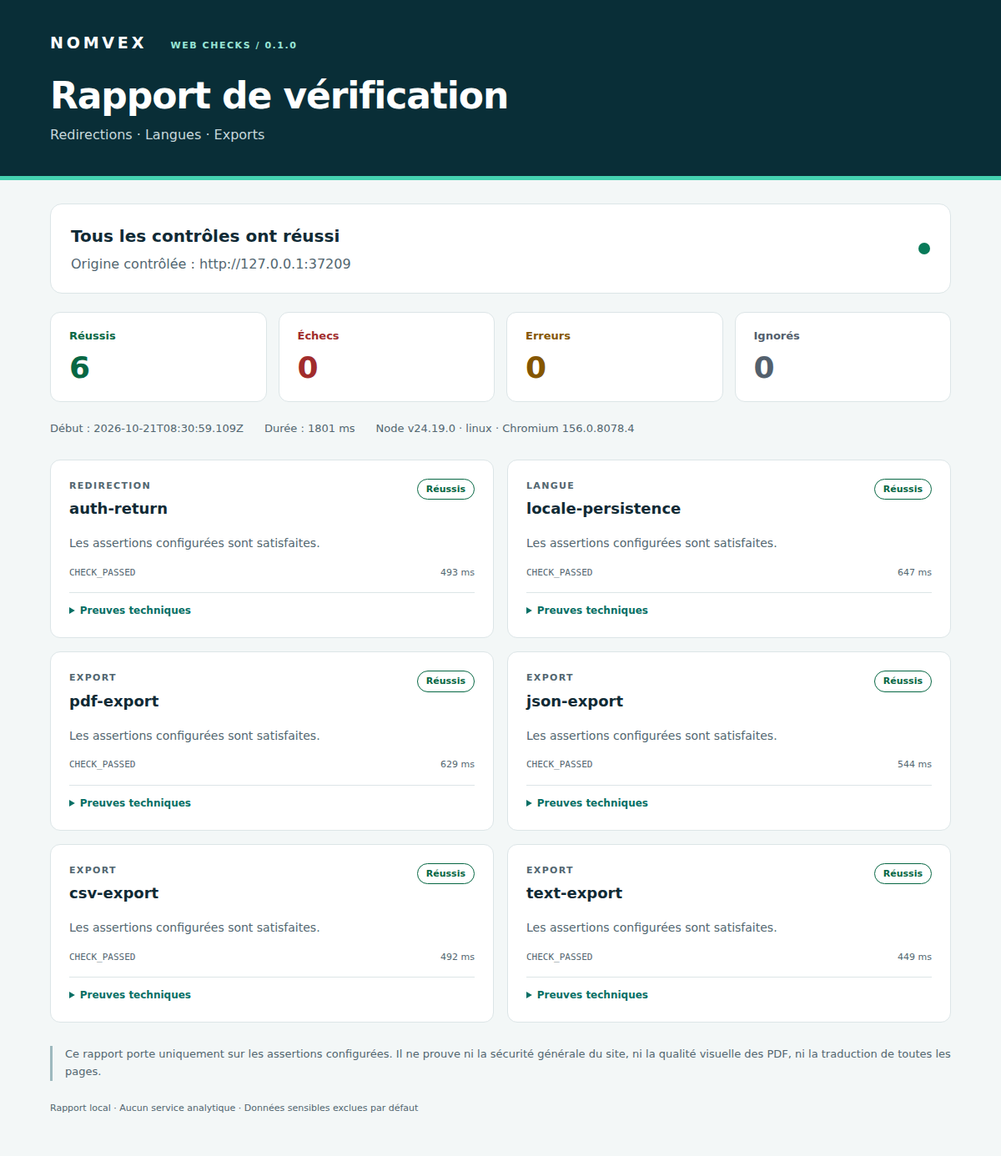
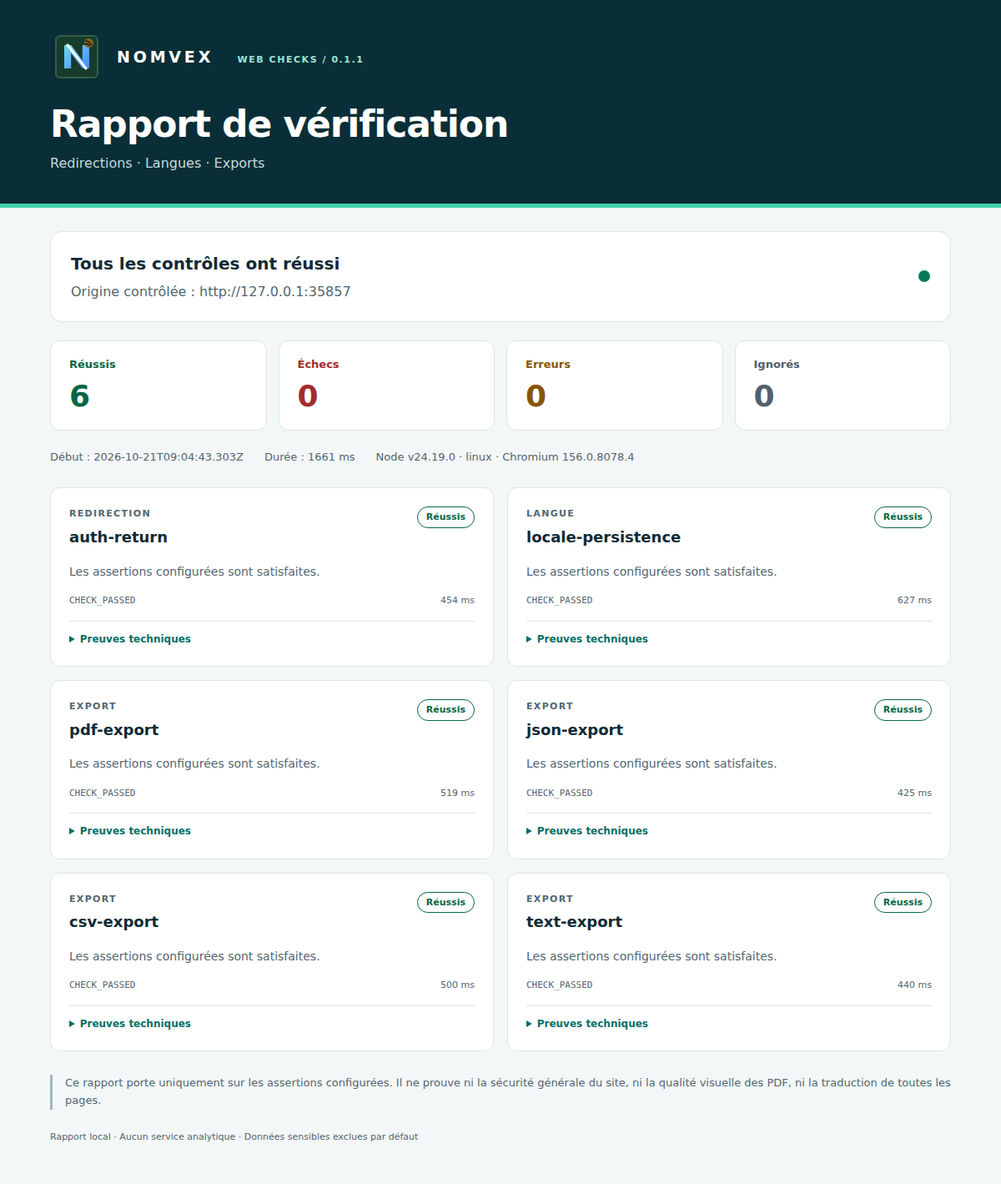
feat: add existing NOMVEX identity to offline reports
Reuse the existing platform mark in both READMEs and embed the exact SVG
bytes in standalone reports. Preserve HTML escaping and allow data images only.

Release 0.1.1: 47 clean-copy tests passed; healthy demo 6/6; broken demo
7 expected failures. Logo loading verified offline on desktop, mobile and
print media with no external requests or horizontal overflow.

diff --git a/docs/examples/healthy-report.fr.html b/docs/examples/healthy-report.fr.html
@@ -1,4 +1,4 @@
 <!doctype html>
-<html lang="fr"><head><meta charset="utf-8"><meta name="viewport" content="width=device-width, initial-scale=1"><meta http-equiv="Content-Security-Policy" content="default-src 'none'; style-src 'unsafe-inline'; base-uri 'none'; form-action 'none'"><title>NOMVEX — Rapport de vérification</title><style>
-:root{color-scheme:light;--ink:#102a35;--muted:#526670;--line:#dce5e7;--teal:#076f65;--bg:#f3f7f7}*{box-sizing:border-box}body{margin:0;background:var(--bg);font:16px/1.6 system-ui,-apple-system,Segoe UI,sans-serif;color:var(--ink)}header{background:#092e37;color:#fff;padding:36px max(24px,calc((100vw - 1080px)/2));border-bottom:5px solid #45d2b0}.brand{font-weight:800;letter-spacing:.2em;font-size:19px}.brand small{font-size:11px;letter-spacing:.14em;color:#99e5d5;margin-left:18px}h1{font-size:clamp(28px,4vw,44px);line-height:1.15;margin:24px 0 8px;letter-spacing:-.025em}header p{margin:0;color:#c7d8dc}main{max-width:1128px;margin:auto;padding:28px 24px 48px}.verdict{display:flex;align-items:center;justify-content:space-between;gap:20px;padding:22px 24px;background:#fff;border:1px solid var(--line);border-radius:14px}.verdict h2{font-size:20px;margin:0}.verdict p{margin:5px 0 0;color:var(--muted);overflow-wrap:anywhere}.dot{width:14px;height:14px;border-radius:50%;background:#087a59;flex-shrink:0}.metrics{display:grid;grid-template-columns:repeat(4,1fr);gap:14px;margin:22px 0}.metric{padding:18px 22px;background:#fff;border:1px solid var(--line);border-radius:12px}.metric span{display:block;font-size:13px;font-weight:650}.metric strong{display:block;font-size:36px;line-height:1.25;margin-top:4px}.passed{color:#066743}.failed{color:#a12c2c}.error{color:#855600}.skipped{color:#53606d}.meta{display:flex;flex-wrap:wrap;gap:10px 25px;font-size:13px;color:var(--muted);margin:12px 0 26px}.checks{display:grid;grid-template-columns:repeat(2,minmax(0,1fr));gap:16px}.check{background:white;border:1px solid var(--line);border-radius:12px;padding:22px;min-width:0}.check-top{display:flex;justify-content:space-between;align-items:flex-start;gap:12px}.kind{text-transform:uppercase;font-size:11px;letter-spacing:.12em;color:var(--muted);font-weight:700;margin:0 0 5px}.check h2{font-size:18px;margin:0;overflow-wrap:anywhere}.check>p{font-size:14px;color:var(--muted);margin:15px 0}.badge{font-size:11px;font-weight:750;border:1px solid currentColor;border-radius:99px;padding:3px 10px;white-space:nowrap}.check-meta{display:flex;gap:12px;justify-content:space-between;align-items:flex-start;font-size:11px;color:var(--muted)}code{font-family:ui-monospace,monospace;overflow-wrap:anywhere}details{margin-top:15px;border-top:1px solid var(--line);padding-top:12px;font-size:12px}summary{cursor:pointer;color:var(--teal);font-weight:650}summary:focus-visible{outline:3px solid #69c9b3;outline-offset:4px}dl{margin:12px 0 0}dl div{display:flex;justify-content:space-between;gap:16px;padding:4px 0}dt,dd{margin:0;overflow-wrap:anywhere}.limits{border-left:3px solid #9db9be;padding-left:15px;color:var(--muted);font-size:13px;margin-top:28px}footer{color:var(--muted);font-size:11px;margin-top:24px}@media(max-width:650px){.metrics{grid-template-columns:repeat(2,1fr)}.checks{grid-template-columns:1fr}.brand small{display:block;margin:5px 0 0}.verdict{padding:18px}main{padding:20px 16px}header{padding:28px 20px}}@media print{body{background:#fff}.check{break-inside:avoid}header{background:#fff;color:var(--ink)}header p{color:var(--muted)}details{display:block}.checks{grid-template-columns:1fr}}
-</style></head><body><header><div class="brand">NOMVEX <small>WEB CHECKS / 0.1.0</small></div><h1>Rapport de vérification</h1><p>Redirections · Langues · Exports</p></header><main><section class="verdict"><div><h2>Tous les contrôles ont réussi</h2><p>Origine contrôlée : http://127.0.0.1:37209</p></div><span class="dot" aria-hidden="true"></span></section><section class="metrics" aria-label="Résultat"><div class="metric passed"><span>Réussis</span><strong>6</strong></div><div class="metric failed"><span>Échecs</span><strong>0</strong></div><div class="metric error"><span>Erreurs</span><strong>0</strong></div><div class="metric skipped"><span>Ignorés</span><strong>0</strong></div></section><div class="meta"><span>Début : 2026-10-21T08:30:59.109Z</span><span>Durée : 1801 ms</span><span>Node v24.19.0 · linux · Chromium 156.0.8078.4</span></div><section class="checks" aria-label="Contrôle"><article class="check"><div class="check-top"><div><p class="kind">Redirection</p><h2>auth-return</h2></div><span class="badge passed">Réussis</span></div><p>Les assertions configurées sont satisfaites.</p><div class="check-meta"><code>CHECK_PASSED</code><span>493 ms</span></div><details><summary>Preuves techniques</summary><dl><div><dt>exactUrlMatched</dt><dd>true</dd></div></dl></details></article><article class="check"><div class="check-top"><div><p class="kind">Langue</p><h2>locale-persistence</h2></div><span class="badge passed">Réussis</span></div><p>Les assertions configurées sont satisfaites.</p><div class="check-meta"><code>CHECK_PASSED</code><span>647 ms</span></div><details><summary>Preuves techniques</summary><dl><div><dt>stagesChecked</dt><dd>3</dd></div><div><dt>textChecked</dt><dd>true</dd></div></dl></details></article><article class="check"><div class="check-top"><div><p class="kind">Export</p><h2>pdf-export</h2></div><span class="badge passed">Réussis</span></div><p>Les assertions configurées sont satisfaites.</p><div class="check-meta"><code>CHECK_PASSED</code><span>629 ms</span></div><details><summary>Preuves techniques</summary><dl><div><dt>format</dt><dd>pdf</dd></div><div><dt>bytes</dt><dd>887</dd></div><div><dt>pages</dt><dd>1</dd></div></dl></details></article><article class="check"><div class="check-top"><div><p class="kind">Export</p><h2>json-export</h2></div><span class="badge passed">Réussis</span></div><p>Les assertions configurées sont satisfaites.</p><div class="check-meta"><code>CHECK_PASSED</code><span>544 ms</span></div><details><summary>Preuves techniques</summary><dl><div><dt>format</dt><dd>json</dd></div><div><dt>bytes</dt><dd>84</dd></div><div><dt>expectedTextChecked</dt><dd>false</dd></div><div><dt>requiredKeysChecked</dt><dd>3</dd></div></dl></details></article><article class="check"><div class="check-top"><div><p class="kind">Export</p><h2>csv-export</h2></div><span class="badge passed">Réussis</span></div><p>Les assertions configurées sont satisfaites.</p><div class="check-meta"><code>CHECK_PASSED</code><span>492 ms</span></div><details><summary>Preuves techniques</summary><dl><div><dt>format</dt><dd>csv</dd></div><div><dt>bytes</dt><dd>81</dd></div><div><dt>expectedTextChecked</dt><dd>false</dd></div><div><dt>columns</dt><dd>3</dd></div><div><dt>dataRows</dt><dd>2</dd></div></dl></details></article><article class="check"><div class="check-top"><div><p class="kind">Export</p><h2>text-export</h2></div><span class="badge passed">Réussis</span></div><p>Les assertions configurées sont satisfaites.</p><div class="check-meta"><code>CHECK_PASSED</code><span>449 ms</span></div><details><summary>Preuves techniques</summary><dl><div><dt>format</dt><dd>text</dd></div><div><dt>bytes</dt><dd>41</dd></div><div><dt>expectedTextChecked</dt><dd>true</dd></div></dl></details></article></section><p class="limits">Ce rapport porte uniquement sur les assertions configurées. Il ne prouve ni la sécurité générale du site, ni la qualité visuelle des PDF, ni la traduction de toutes les pages.</p><footer>Rapport local · Aucun service analytique · Données sensibles exclues par défaut</footer></main></body></html>
+<html lang="fr"><head><meta charset="utf-8"><meta name="viewport" content="width=device-width, initial-scale=1"><meta http-equiv="Content-Security-Policy" content="default-src 'none'; img-src data:; style-src 'unsafe-inline'; base-uri 'none'; form-action 'none'"><title>NOMVEX — Rapport de vérification</title><style>
+:root{color-scheme:light;--ink:#102a35;--muted:#526670;--line:#dce5e7;--teal:#076f65;--bg:#f3f7f7}*{box-sizing:border-box}body{margin:0;background:var(--bg);font:16px/1.6 system-ui,-apple-system,Segoe UI,sans-serif;color:var(--ink)}header{background:#092e37;color:#fff;padding:36px max(24px,calc((100vw - 1080px)/2));border-bottom:5px solid #45d2b0}.brand{display:flex;align-items:center;gap:16px;font-weight:800;letter-spacing:.2em;font-size:19px}.brand-mark{display:block;width:64px;height:64px;flex:0 0 64px;object-fit:contain}.brand-copy{min-width:0;overflow-wrap:anywhere}.brand small{font-size:11px;letter-spacing:.14em;color:#99e5d5;margin-left:18px}h1{font-size:clamp(28px,4vw,44px);line-height:1.15;margin:24px 0 8px;letter-spacing:-.025em}header p{margin:0;color:#c7d8dc}main{max-width:1128px;margin:auto;padding:28px 24px 48px}.verdict{display:flex;align-items:center;justify-content:space-between;gap:20px;padding:22px 24px;background:#fff;border:1px solid var(--line);border-radius:14px}.verdict h2{font-size:20px;margin:0}.verdict p{margin:5px 0 0;color:var(--muted);overflow-wrap:anywhere}.dot{width:14px;height:14px;border-radius:50%;background:#087a59;flex-shrink:0}.metrics{display:grid;grid-template-columns:repeat(4,1fr);gap:14px;margin:22px 0}.metric{padding:18px 22px;background:#fff;border:1px solid var(--line);border-radius:12px}.metric span{display:block;font-size:13px;font-weight:650}.metric strong{display:block;font-size:36px;line-height:1.25;margin-top:4px}.passed{color:#066743}.failed{color:#a12c2c}.error{color:#855600}.skipped{color:#53606d}.meta{display:flex;flex-wrap:wrap;gap:10px 25px;font-size:13px;color:var(--muted);margin:12px 0 26px}.checks{display:grid;grid-template-columns:repeat(2,minmax(0,1fr));gap:16px}.check{background:white;border:1px solid var(--line);border-radius:12px;padding:22px;min-width:0}.check-top{display:flex;justify-content:space-between;align-items:flex-start;gap:12px}.kind{text-transform:uppercase;font-size:11px;letter-spacing:.12em;color:var(--muted);font-weight:700;margin:0 0 5px}.check h2{font-size:18px;margin:0;overflow-wrap:anywhere}.check>p{font-size:14px;color:var(--muted);margin:15px 0}.badge{font-size:11px;font-weight:750;border:1px solid currentColor;border-radius:99px;padding:3px 10px;white-space:nowrap}.check-meta{display:flex;gap:12px;justify-content:space-between;align-items:flex-start;font-size:11px;color:var(--muted)}code{font-family:ui-monospace,monospace;overflow-wrap:anywhere}details{margin-top:15px;border-top:1px solid var(--line);padding-top:12px;font-size:12px}summary{cursor:pointer;color:var(--teal);font-weight:650}summary:focus-visible{outline:3px solid #69c9b3;outline-offset:4px}dl{margin:12px 0 0}dl div{display:flex;justify-content:space-between;gap:16px;padding:4px 0}dt,dd{margin:0;overflow-wrap:anywhere}.limits{border-left:3px solid #9db9be;padding-left:15px;color:var(--muted);font-size:13px;margin-top:28px}footer{color:var(--muted);font-size:11px;margin-top:24px}@media(max-width:650px){.brand{gap:12px}.brand-mark{width:56px;height:56px;flex-basis:56px}.metrics{grid-template-columns:repeat(2,1fr)}.checks{grid-template-columns:1fr}.brand small{display:block;margin:5px 0 0}.verdict{padding:18px}main{padding:20px 16px}header{padding:28px 20px}}@media print{body{background:#fff}.check{break-inside:avoid}header{background:#fff;color:var(--ink)}header p,.brand small{color:var(--muted)}details{display:block}.checks{grid-template-columns:1fr}}
[1 lines of base64/hex data omitted]

diff --git a/docs/examples/healthy-report.en.html b/docs/examples/healthy-report.en.html
@@ -1,4 +1,4 @@
 <!doctype html>
-<html lang="en"><head><meta charset="utf-8"><meta name="viewport" content="width=device-width, initial-scale=1"><meta http-equiv="Content-Security-Policy" content="default-src 'none'; style-src 'unsafe-inline'; base-uri 'none'; form-action 'none'"><title>NOMVEX — Verification report</title><style>
-:root{color-scheme:light;--ink:#102a35;--muted:#526670;--line:#dce5e7;--teal:#076f65;--bg:#f3f7f7}*{box-sizing:border-box}body{margin:0;background:var(--bg);font:16px/1.6 system-ui,-apple-system,Segoe UI,sans-serif;color:var(--ink)}header{background:#092e37;color:#fff;padding:36px max(24px,calc((100vw - 1080px)/2));border-bottom:5px solid #45d2b0}.brand{font-weight:800;letter-spacing:.2em;font-size:19px}.brand small{font-size:11px;letter-spacing:.14em;color:#99e5d5;margin-left:18px}h1{font-size:clamp(28px,4vw,44px);line-height:1.15;margin:24px 0 8px;letter-spacing:-.025em}header p{margin:0;color:#c7d8dc}main{max-width:1128px;margin:auto;padding:28px 24px 48px}.verdict{display:flex;align-items:center;justify-content:space-between;gap:20px;padding:22px 24px;background:#fff;border:1px solid var(--line);border-radius:14px}.verdict h2{font-size:20px;margin:0}.verdict p{margin:5px 0 0;color:var(--muted);overflow-wrap:anywhere}.dot{width:14px;height:14px;border-radius:50%;background:#087a59;flex-shrink:0}.metrics{display:grid;grid-template-columns:repeat(4,1fr);gap:14px;margin:22px 0}.metric{padding:18px 22px;background:#fff;border:1px solid var(--line);border-radius:12px}.metric span{display:block;font-size:13px;font-weight:650}.metric strong{display:block;font-size:36px;line-height:1.25;margin-top:4px}.passed{color:#066743}.failed{color:#a12c2c}.error{color:#855600}.skipped{color:#53606d}.meta{display:flex;flex-wrap:wrap;gap:10px 25px;font-size:13px;color:var(--muted);margin:12px 0 26px}.checks{display:grid;grid-template-columns:repeat(2,minmax(0,1fr));gap:16px}.check{background:white;border:1px solid var(--line);border-radius:12px;padding:22px;min-width:0}.check-top{display:flex;justify-content:space-between;align-items:flex-start;gap:12px}.kind{text-transform:uppercase;font-size:11px;letter-spacing:.12em;color:var(--muted);font-weight:700;margin:0 0 5px}.check h2{font-size:18px;margin:0;overflow-wrap:anywhere}.check>p{font-size:14px;color:var(--muted);margin:15px 0}.badge{font-size:11px;font-weight:750;border:1px solid currentColor;border-radius:99px;padding:3px 10px;white-space:nowrap}.check-meta{display:flex;gap:12px;justify-content:space-between;align-items:flex-start;font-size:11px;color:var(--muted)}code{font-family:ui-monospace,monospace;overflow-wrap:anywhere}details{margin-top:15px;border-top:1px solid var(--line);padding-top:12px;font-size:12px}summary{cursor:pointer;color:var(--teal);font-weight:650}summary:focus-visible{outline:3px solid #69c9b3;outline-offset:4px}dl{margin:12px 0 0}dl div{display:flex;justify-content:space-between;gap:16px;padding:4px 0}dt,dd{margin:0;overflow-wrap:anywhere}.limits{border-left:3px solid #9db9be;padding-left:15px;color:var(--muted);font-size:13px;margin-top:28px}footer{color:var(--muted);font-size:11px;margin-top:24px}@media(max-width:650px){.metrics{grid-template-columns:repeat(2,1fr)}.checks{grid-template-columns:1fr}.brand small{display:block;margin:5px 0 0}.verdict{padding:18px}main{padding:20px 16px}header{padding:28px 20px}}@media print{body{background:#fff}.check{break-inside:avoid}header{background:#fff;color:var(--ink)}header p{color:var(--muted)}details{display:block}.checks{grid-template-columns:1fr}}
-</style></head><body><header><div class="brand">NOMVEX <small>WEB CHECKS / 0.1.0</small></div><h1>Verification report</h1><p>Redirects · Languages · Exports</p></header><main><section class="verdict"><div><h2>All checks passed</h2><p>Checked origin : http://127.0.0.1:37209</p></div><span class="dot" aria-hidden="true"></span></section><section class="metrics" aria-label="Result"><div class="metric passed"><span>Passed</span><strong>6</strong></div><div class="metric failed"><span>Failed</span><strong>0</strong></div><div class="metric error"><span>Errors</span><strong>0</strong></div><div class="metric skipped"><span>Skipped</span><strong>0</strong></div></section><div class="meta"><span>Started : 2026-10-21T08:30:59.109Z</span><span>Duration : 1801 ms</span><span>Node v24.19.0 · linux · Chromium 156.0.8078.4</span></div><section class="checks" aria-label="Check"><article class="check"><div class="check-top"><div><p class="kind">Redirect</p><h2>auth-return</h2></div><span class="badge passed">Passed</span></div><p>The configured assertions passed.</p><div class="check-meta"><code>CHECK_PASSED</code><span>493 ms</span></div><details><summary>Technical evidence</summary><dl><div><dt>exactUrlMatched</dt><dd>true</dd></div></dl></details></article><article class="check"><div class="check-top"><div><p class="kind">Language</p><h2>locale-persistence</h2></div><span class="badge passed">Passed</span></div><p>The configured assertions passed.</p><div class="check-meta"><code>CHECK_PASSED</code><span>647 ms</span></div><details><summary>Technical evidence</summary><dl><div><dt>stagesChecked</dt><dd>3</dd></div><div><dt>textChecked</dt><dd>true</dd></div></dl></details></article><article class="check"><div class="check-top"><div><p class="kind">Export</p><h2>pdf-export</h2></div><span class="badge passed">Passed</span></div><p>The configured assertions passed.</p><div class="check-meta"><code>CHECK_PASSED</code><span>629 ms</span></div><details><summary>Technical evidence</summary><dl><div><dt>format</dt><dd>pdf</dd></div><div><dt>bytes</dt><dd>887</dd></div><div><dt>pages</dt><dd>1</dd></div></dl></details></article><article class="check"><div class="check-top"><div><p class="kind">Export</p><h2>json-export</h2></div><span class="badge passed">Passed</span></div><p>The configured assertions passed.</p><div class="check-meta"><code>CHECK_PASSED</code><span>544 ms</span></div><details><summary>Technical evidence</summary><dl><div><dt>format</dt><dd>json</dd></div><div><dt>bytes</dt><dd>84</dd></div><div><dt>expectedTextChecked</dt><dd>false</dd></div><div><dt>requiredKeysChecked</dt><dd>3</dd></div></dl></details></article><article class="check"><div class="check-top"><div><p class="kind">Export</p><h2>csv-export</h2></div><span class="badge passed">Passed</span></div><p>The configured assertions passed.</p><div class="check-meta"><code>CHECK_PASSED</code><span>492 ms</span></div><details><summary>Technical evidence</summary><dl><div><dt>format</dt><dd>csv</dd></div><div><dt>bytes</dt><dd>81</dd></div><div><dt>expectedTextChecked</dt><dd>false</dd></div><div><dt>columns</dt><dd>3</dd></div><div><dt>dataRows</dt><dd>2</dd></div></dl></details></article><article class="check"><div class="check-top"><div><p class="kind">Export</p><h2>text-export</h2></div><span class="badge passed">Passed</span></div><p>The configured assertions passed.</p><div class="check-meta"><code>CHECK_PASSED</code><span>449 ms</span></div><details><summary>Technical evidence</summary><dl><div><dt>format</dt><dd>text</dd></div><div><dt>bytes</dt><dd>41</dd></div><div><dt>expectedTextChecked</dt><dd>true</dd></div></dl></details></article></section><p class="limits">This report covers only the configured assertions. It does not establish overall site security, visual PDF quality, or complete translation of every page.</p><footer>Local report · No analytics service · Sensitive values excluded by default</footer></main></body></html>
+<html lang="en"><head><meta charset="utf-8"><meta name="viewport" content="width=device-width, initial-scale=1"><meta http-equiv="Content-Security-Policy" content="default-src 'none'; img-src data:; style-src 'unsafe-inline'; base-uri 'none'; form-action 'none'"><title>NOMVEX — Verification report</title><style>
+:root{color-scheme:light;--ink:#102a35;--muted:#526670;--line:#dce5e7;--teal:#076f65;--bg:#f3f7f7}*{box-sizing:border-box}body{margin:0;background:var(--bg);font:16px/1.6 system-ui,-apple-system,Segoe UI,sans-serif;color:var(--ink)}header{background:#092e37;color:#fff;padding:36px max(24px,calc((100vw - 1080px)/2));border-bottom:5px solid #45d2b0}.brand{display:flex;align-items:center;gap:16px;font-weight:800;letter-spacing:.2em;font-size:19px}.brand-mark{display:block;width:64px;height:64px;flex:0 0 64px;object-fit:contain}.brand-copy{min-width:0;overflow-wrap:anywhere}.brand small{font-size:11px;letter-spacing:.14em;color:#99e5d5;margin-left:18px}h1{font-size:clamp(28px,4vw,44px);line-height:1.15;margin:24px 0 8px;letter-spacing:-.025em}header p{margin:0;color:#c7d8dc}main{max-width:1128px;margin:auto;padding:28px 24px 48px}.verdict{display:flex;align-items:center;justify-content:space-between;gap:20px;padding:22px 24px;background:#fff;border:1px solid var(--line);border-radius:14px}.verdict h2{font-size:20px;margin:0}.verdict p{margin:5px 0 0;color:var(--muted);overflow-wrap:anywhere}.dot{width:14px;height:14px;border-radius:50%;background:#087a59;flex-shrink:0}.metrics{display:grid;grid-template-columns:repeat(4,1fr);gap:14px;margin:22px 0}.metric{padding:18px 22px;background:#fff;border:1px solid var(--line);border-radius:12px}.metric span{display:block;font-size:13px;font-weight:650}.metric strong{display:block;font-size:36px;line-height:1.25;margin-top:4px}.passed{color:#066743}.failed{color:#a12c2c}.error{color:#855600}.skipped{color:#53606d}.meta{display:flex;flex-wrap:wrap;gap:10px 25px;font-size:13px;color:var(--muted);margin:12px 0 26px}.checks{display:grid;grid-template-columns:repeat(2,minmax(0,1fr));gap:16px}.check{background:white;border:1px solid var(--line);border-radius:12px;padding:22px;min-width:0}.check-top{display:flex;justify-content:space-between;align-items:flex-start;gap:12px}.kind{text-transform:uppercase;font-size:11px;letter-spacing:.12em;color:var(--muted);font-weight:700;margin:0 0 5px}.check h2{font-size:18px;margin:0;overflow-wrap:anywhere}.check>p{font-size:14px;color:var(--muted);margin:15px 0}.badge{font-size:11px;font-weight:750;border:1px solid currentColor;border-radius:99px;padding:3px 10px;white-space:nowrap}.check-meta{display:flex;gap:12px;justify-content:space-between;align-items:flex-start;font-size:11px;color:var(--muted)}code{font-family:ui-monospace,monospace;overflow-wrap:anywhere}details{margin-top:15px;border-top:1px solid var(--line);padding-top:12px;font-size:12px}summary{cursor:pointer;color:var(--teal);font-weight:650}summary:focus-visible{outline:3px solid #69c9b3;outline-offset:4px}dl{margin:12px 0 0}dl div{display:flex;justify-content:space-between;gap:16px;padding:4px 0}dt,dd{margin:0;overflow-wrap:anywhere}.limits{border-left:3px solid #9db9be;padding-left:15px;color:var(--muted);font-size:13px;margin-top:28px}footer{color:var(--muted);font-size:11px;margin-top:24px}@media(max-width:650px){.brand{gap:12px}.brand-mark{width:56px;height:56px;flex-basis:56px}.metrics{grid-template-columns:repeat(2,1fr)}.checks{grid-template-columns:1fr}.brand small{display:block;margin:5px 0 0}.verdict{padding:18px}main{padding:20px 16px}header{padding:28px 20px}}@media print{body{background:#fff}.check{break-inside:avoid}header{background:#fff;color:var(--ink)}header p,.brand small{color:var(--muted)}details{display:block}.checks{grid-template-columns:1fr}}
[1 lines of base64/hex data omitted]

diff --git a/src/report.ts b/src/report.ts
@@ -1,4 +1,5 @@
 import type { Language, RunReport } from './types.js';
+import { NOMVEX_MARK_DATA_URI } from './branding.js';
 
 const messages: Record<string, [string, string]> = {
   CHECK_PASSED: ['Les assertions configurées sont satisfaites.', 'The configured assertions passed.'],
@@ -98,7 +99,7 @@ export function renderHtml(report: RunReport): string {
   }).join('');
   const elapsed = Math.max(0, Date.parse(report.finishedAt) - Date.parse(report.startedAt));
   return `<!doctype html>
-<html lang="${lang}"><head><meta charset="utf-8"><meta name="viewport" content="width=device-width, initial-scale=1"><meta http-equiv="Content-Security-Policy" content="default-src 'none'; style-src 'unsafe-inline'; base-uri 'none'; form-action 'none'"><title>NOMVEX — ${t.title}</title><style>
-:root{color-scheme:light;--ink:#102a35;--muted:#526670;--line:#dce5e7;--teal:#076f65;--bg:#f3f7f7}*{box-sizing:border-box}body{margin:0;background:var(--bg);font:16px/1.6 system-ui,-apple-system,Segoe UI,sans-serif;color:var(--ink)}header{background:#092e37;color:#fff;padding:36px max(24px,calc((100vw - 1080px)/2));border-bottom:5px solid #45d2b0}.brand{font-weight:800;letter-spacing:.2em;font-size:19px}.brand small{font-size:11px;letter-spacing:.14em;color:#99e5d5;margin-left:18px}h1{font-size:clamp(28px,4vw,44px);line-height:1.15;margin:24px 0 8px;letter-spacing:-.025em}header p{margin:0;color:#c7d8dc}main{max-width:1128px;margin:auto;padding:28px 24px 48px}.verdict{display:flex;align-items:center;justify-content:space-between;gap:20px;padding:22px 24px;background:#fff;border:1px solid var(--line);border-radius:14px}.verdict h2{font-size:20px;margin:0}.verdict p{margin:5px 0 0;color:var(--muted);overflow-wrap:anywhere}.dot{width:14px;height:14px;border-radius:50%;background:${code === 0 ? '#087a59' : code === 1 ? '#ba3f36' : '#a46900'};flex-shrink:0}.metrics{display:grid;grid-template-columns:repeat(4,1fr);gap:14px;margin:22px 0}.metric{padding:18px 22px;background:#fff;border:1px solid var(--line);border-radius:12px}.metric span{display:block;font-size:13px;font-weight:650}.metric strong{display:block;font-size:36px;line-height:1.25;margin-top:4px}.passed{color:#066743}.failed{color:#a12c2c}.error{color:#855600}.skipped{color:#53606d}.meta{display:flex;flex-wrap:wrap;gap:10px 25px;font-size:13px;color:var(--muted);margin:12px 0 26px}.checks{display:grid;grid-template-columns:repeat(2,minmax(0,1fr));gap:16px}.check{background:white;border:1px solid var(--line);border-radius:12px;padding:22px;min-width:0}.check-top{display:flex;justify-content:space-between;align-items:flex-start;gap:12px}.kind{text-transform:uppercase;font-size:11px;letter-spacing:.12em;color:var(--muted);font-weight:700;margin:0 0 5px}.check h2{font-size:18px;margin:0;overflow-wrap:anywhere}.check>p{font-size:14px;color:var(--muted);margin:15px 0}.badge{font-size:11px;font-weight:750;border:1px solid currentColor;border-radius:99px;padding:3px 10px;white-space:nowrap}.check-meta{display:flex;gap:12px;justify-content:space-between;align-items:flex-start;font-size:11px;color:var(--muted)}code{font-family:ui-monospace,monospace;overflow-wrap:anywhere}details{margin-top:15px;border-top:1px solid var(--line);padding-top:12px;font-size:12px}summary{cursor:pointer;color:var(--teal);font-weight:650}summary:focus-visible{outline:3px solid #69c9b3;outline-offset:4px}dl{margin:12px 0 0}dl div{display:flex;justify-content:space-between;gap:16px;padding:4px 0}dt,dd{margin:0;overflow-wrap:anywhere}.limits{border-left:3px solid #9db9be;padding-left:15px;color:var(--muted);font-size:13px;margin-top:28px}footer{color:var(--muted);font-size:11px;margin-top:24px}@media(max-width:650px){.metrics{grid-template-columns:repeat(2,1fr)}.checks{grid-template-columns:1fr}.brand small{display:block;margin:5px 0 0}.verdict{padding:18px}main{padding:20px 16px}header{padding:28px 20px}}@media print{body{background:#fff}.check{break-inside:avoid}header{background:#fff;color:var(--ink)}header p{color:var(--muted)}details{display:block}.checks{grid-template-columns:1fr}}
-</style></head><body><header><div class="brand">NOMVEX <small>WEB CHECKS / ${escape(report.toolVersion)}</small></div><h1>${t.title}</h1><p>${t.subtitle}</p></header><main><section class="verdict"><div><h2>${title}</h2><p>${t.target} : ${escape(report.baseUrl)}</p></div><span class="dot" aria-hidden="true"></span></section><section class="metrics" aria-label="${t.result}">${counts}</section><div class="meta"><span>${t.started} : ${escape(report.startedAt)}</span><span>${t.duration} : ${Number.isFinite(elapsed) ? elapsed : 0} ms</span><span>Node ${escape(report.environment.node)} · ${escape(report.environment.platform)} · Chromium ${escape(report.environment.browser)}</span></div><section class="checks" aria-label="${t.check}">${rows}</section><p class="limits">${t.limits}</p><footer>${t.local}</footer></main></body></html>`;
+<html lang="${lang}"><head><meta charset="utf-8"><meta name="viewport" content="width=device-width, initial-scale=1"><meta http-equiv="Content-Security-Policy" content="default-src 'none'; img-src data:; style-src 'unsafe-inline'; base-uri 'none'; form-action 'none'"><title>NOMVEX — ${t.title}</title><style>
+:root{color-scheme:light;--ink:#102a35;--muted:#526670;--line:#dce5e7;--teal:#076f65;--bg:#f3f7f7}*{box-sizing:border-box}body{margin:0;background:var(--bg);font:16px/1.6 system-ui,-apple-system,Segoe UI,sans-serif;color:var(--ink)}header{background:#092e37;color:#fff;padding:36px max(24px,calc((100vw - 1080px)/2));border-bottom:5px solid #45d2b0}.brand{display:flex;align-items:center;gap:16px;font-weight:800;letter-spacing:.2em;font-size:19px}.brand-mark{display:block;width:64px;height:64px;flex:0 0 64px;object-fit:contain}.brand-copy{min-width:0;overflow-wrap:anywhere}.brand small{font-size:11px;letter-spacing:.14em;color:#99e5d5;margin-left:18px}h1{font-size:clamp(28px,4vw,44px);line-height:1.15;margin:24px 0 8px;letter-spacing:-.025em}header p{margin:0;color:#c7d8dc}main{max-width:1128px;margin:auto;padding:28px 24px 48px}.verdict{display:flex;align-items:center;justify-content:space-between;gap:20px;padding:22px 24px;background:#fff;border:1px solid var(--line);border-radius:14px}.verdict h2{font-size:20px;margin:0}.verdict p{margin:5px 0 0;color:var(--muted);overflow-wrap:anywhere}.dot{width:14px;height:14px;border-radius:50%;background:${code === 0 ? '#087a59' : code === 1 ? '#ba3f36' : '#a46900'};flex-shrink:0}.metrics{display:grid;grid-template-columns:repeat(4,1fr);gap:14px;margin:22px 0}.metric{padding:18px 22px;background:#fff;border:1px solid var(--line);border-radius:12px}.metric span{display:block;font-size:13px;font-weight:650}.metric strong{display:block;font-size:36px;line-height:1.25;margin-top:4px}.passed{color:#066743}.failed{color:#a12c2c}.error{color:#855600}.skipped{color:#53606d}.meta{display:flex;flex-wrap:wrap;gap:10px 25px;font-size:13px;color:var(--muted);margin:12px 0 26px}.checks{display:grid;grid-template-columns:repeat(2,minmax(0,1fr));gap:16px}.check{background:white;border:1px solid var(--line);border-radius:12px;padding:22px;min-width:0}.check-top{display:flex;justify-content:space-between;align-items:flex-start;gap:12px}.kind{text-transform:uppercase;font-size:11px;letter-spacing:.12em;color:var(--muted);font-weight:700;margin:0 0 5px}.check h2{font-size:18px;margin:0;overflow-wrap:anywhere}.check>p{font-size:14px;color:var(--muted);margin:15px 0}.badge{font-size:11px;font-weight:750;border:1px solid currentColor;border-radius:99px;padding:3px 10px;white-space:nowrap}.check-meta{display:flex;gap:12px;justify-content:space-between;align-items:flex-start;font-size:11px;color:var(--muted)}code{font-family:ui-monospace,monospace;overflow-wrap:anywhere}details{margin-top:15px;border-top:1px solid var(--line);padding-top:12px;font-size:12px}summary{cursor:pointer;color:var(--teal);font-weight:650}summary:focus-visible{outline:3px solid #69c9b3;outline-offset:4px}dl{margin:12px 0 0}dl div{display:flex;justify-content:space-between;gap:16px;padding:4px 0}dt,dd{margin:0;overflow-wrap:anywhere}.limits{border-left:3px solid #9db9be;padding-left:15px;color:var(--muted);font-size:13px;margin-top:28px}footer{color:var(--muted);font-size:11px;margin-top:24px}@media(max-width:650px){.brand{gap:12px}.brand-mark{width:56px;height:56px;flex-basis:56px}.metrics{grid-template-columns:repeat(2,1fr)}.checks{grid-template-columns:1fr}.brand small{display:block;margin:5px 0 0}.verdict{padding:18px}main{padding:20px 16px}header{padding:28px 20px}}@media print{body{background:#fff}.check{break-inside:avoid}header{background:#fff;color:var(--ink)}header p,.brand small{color:var(--muted)}details{display:block}.checks{grid-template-columns:1fr}}
+</style></head><body><header><div class="brand"><img class="brand-mark" src="${NOMVEX_MARK_DATA_URI}" width="64" height="64" alt=""><span class="brand-copy">NOMVEX <small>WEB CHECKS / ${escape(report.toolVersion)}</small></span></div><h1>${t.title}</h1><p>${t.subtitle}</p></header><main><section class="verdict"><div><h2>${title}</h2><p>${t.target} : ${escape(report.baseUrl)}</p></div><span class="dot" aria-hidden="true"></span></section><section class="metrics" aria-label="${t.result}">${counts}</section><div class="meta"><span>${t.started} : ${escape(report.startedAt)}</span><span>${t.duration} : ${Number.isFinite(elapsed) ? elapsed : 0} ms</span><span>Node ${escape(report.environment.node)} · ${escape(report.environment.platform)} · Chromium ${escape(report.environment.browser)}</span></div><section class="checks" aria-label="${t.check}">${rows}</section><p class="limits">${t.limits}</p><footer>${t.local}</footer></main></body></html>`;
 }

diff --git a/src/branding.ts b/src/branding.ts
@@ -1,0 +1,2 @@
+// Embedded from docs/branding/nomvex-mark.svg. Keep the bytes in sync; report tests verify equality.
[1 lines of base64/hex data omitted]

diff --git a/src/cli.ts b/src/cli.ts
@@ -7,7 +7,7 @@ import { runChecks } from './run.js';
 import { exitCode, renderHtml, localizeReport } from './report.js';
 import type { Language } from './types.js';
 
-const HELP = `NOMVEX Web Checks 0.1.0
+const HELP = `NOMVEX Web Checks 0.1.1
 
 Usage: nomvex-check --config <config.json> [--out <new-directory>] [--lang fr|en]
 
@@ -24,7 +24,7 @@ Existing report files are never overwritten. No telemetry is sent.
 async function main(): Promise<void> {
   const args = process.argv.slice(2);
   if (args.length === 1 && args[0] === '--help') { process.stdout.write(HELP); return; }
-  if (args.length === 1 && args[0] === '--version') { process.stdout.write('0.1.0\n'); return; }
+  if (args.length === 1 && args[0] === '--version') { process.stdout.write('0.1.1\n'); return; }
   let configPath: string | undefined;
   let outputPath: string | undefined;
   let language: Language = 'fr';

diff --git a/src/run.ts b/src/run.ts
@@ -517,7 +517,7 @@ export async function runChecks(
     result.message = diagnosticMessage(result.code, config.language ?? 'fr');
   }
   return {
-    schemaVersion: 1, toolVersion: '0.1.0', startedAt, finishedAt: new Date().toISOString(),
+    schemaVersion: 1, toolVersion: '0.1.1', startedAt, finishedAt: new Date().toISOString(),
     baseUrl: safeUrl(config.baseUrl), language: config.language ?? 'fr',
     environment: { node: process.version, platform: process.platform, browser: browserVersion },
     summary, results: finished,

diff --git a/docs/ACCEPTANCE.md b/docs/ACCEPTANCE.md
@@ -2,7 +2,7 @@
 
 ## Verified local release candidate — 2026-10-21
 
-The frozen v0.1.0 source was copied into a **clean directory without `node_modules`, `dist` or local reports**. Its locked dependencies were installed from a previously populated public npm cache. The commands below then ran against that clean copy. The source hashes in [verification.json](evidence/verification.json) identify the actual tested files; they were compared with the delivery source before recording success.
+The frozen v0.1.1 source was copied into a **clean directory without `node_modules`, `dist` or local reports**. Its locked dependencies were installed from a previously populated public npm cache. The commands below then ran against that clean copy. The source hashes in [verification.json](evidence/verification.json) identify the actual tested files; they were compared with the delivery source before recording success.
 
 Environment: **Linux, Node v24.19.0, Playwright 1.64.1, Chrome for Testing 156.0.8078.4**. The Playwright CDN returned an HTML unavailable page in the execution environment, so the exact matching browser archive was obtained from Google's official Chrome for Testing storage endpoint. Its archive MD5 matched the vendor response. This was an environment-specific download substitution, not a change to the browser version or test assertions.
 
@@ -14,7 +14,7 @@ Environment: **Linux, Node v24.19.0, Playwright 1.64.1, Chrome for Testing 156.0
 | Healthy documented demo command | Exit 0, **6/6 checks passed** | [Demo log](evidence/demo-log.txt) |
 | Deliberately broken documented demo | Exit **1**, **7 expected behavioral failures**, no runtime errors | [Broken-demo log](evidence/demo-broken-log.txt) |
 | Catalog schema and evidence statuses | **24 entries valid** | [Catalog log](evidence/catalog-log.txt) |
-| FR desktop and EN mobile report rendering | Six cards, correct language, no horizontal overflow | [Layout record](evidence/report-layout.json), [preview](examples/report-preview.png) |
+| FR desktop, EN mobile and print-media rendering | Six cards, embedded logo loaded offline, no horizontal overflow or HTTP(S) requests | [Layout record](evidence/report-layout.json), [preview](examples/report-preview.png) |
 
 The dependency advisory query `npm audit --audit-level=high --json` returned **zero reported vulnerabilities** on 2026-10-21 for this lockfile. Advisory data changes over time; this is not proof that the software has no security defects.
 
@@ -29,6 +29,7 @@ The dependency advisory query `npm audit --audit-level=high --json` returned **z
 - Literal form values and environment secrets are excluded from the generated report in the tested paths.
 - The CLI writes reports in paths containing spaces, preserves existing reports/configuration and returns the documented exit codes.
 - HTML rendering escapes untrusted strings, uses a restrictive content policy and cannot display a green verdict for an inconsistent/unknown result state.
+- The NOMVEX mark embedded in each HTML report matches the standalone brand asset. The configured content policy permits data images without allowing external image services.
 
 Several named tests contain multiple assertions or browser cases. **47 is the named test count**, not a count of real users, tools deployed or supported sites.
 

diff --git a/docs/RELEASE.md b/docs/RELEASE.md
@@ -17,7 +17,7 @@ The broken demo must exit **1** and show the intended behavioral failures. A gen
 
 Record the tested Node and Chromium versions, named test counts, skipped tests, command exit codes and any environment-specific changes. Keep the evidence in `docs/evidence/`. The GitHub-hosted workflow must be checked separately; a committed workflow file is not proof it has run.
 
-`npm pack` builds and produces `nomvex-web-checks-0.1.0.tgz`, including compiled JavaScript, type declarations, the parser worker, source, examples, catalog and documentation. It does not publish to the npm registry. A recipient can install the tarball in a Node project with `npm install ./nomvex-web-checks-0.1.0.tgz`; install its matching Playwright Chromium before running checks. For reproducible source development and `npm ci`, clone or download the complete Git repository, which contains `package-lock.json`.
+`npm pack` builds and produces `nomvex-web-checks-0.1.1.tgz`, including compiled JavaScript, type declarations, the parser worker, source, examples, catalog and documentation. It does not publish to the npm registry. A recipient can install the tarball in a Node project with `npm install ./nomvex-web-checks-0.1.1.tgz`; install its matching Playwright Chromium before running checks. For reproducible source development and `npm ci`, clone or download the complete Git repository, which contains `package-lock.json`.
 
 ## Public release contents
 

diff --git a/docs/branding/README.md b/docs/branding/README.md
@@ -1,0 +1,11 @@
+# NOMVEX identity / Identité NOMVEX
+
+The mark in [nomvex-mark.svg](nomvex-mark.svg) comes from the existing NOMVEX platform identity component. It preserves that component's geometry and gradient, with the existing light-header palette resolved into standalone SVG attributes. It is not a newly generated logo.
+
+Provenance reviewed on 2026-10-21: existing `NomvexLogo.tsx` component, Git blob `f5930d93aa1b650bdae81d42d3db840a0a21106d`. The original application implementation is not bundled with this toolkit.
+
+The French and English READMEs use the same asset. HTML reports embed its exact bytes as a static data URI from `src/branding.ts`; they need no network connection or adjacent image file. The existing HTML escaping and restrictive content policy remain in place. A regression assertion checks that the embedded bytes match this SVG.
+
+Le symbole provient de l’identité existante de la plateforme NOMVEX. Sa géométrie, son dégradé et la palette de l’en-tête clair sont conservés. Les rapports incluent l’image directement pour fonctionner hors ligne. Le nom et le symbole identifient le projet ; la licence logicielle Apache-2.0 ne confère pas de droits sur les marques, conformément à sa section 6.
+
+The NOMVEX name and mark identify this project. The software's Apache-2.0 license does not grant trademark rights; see section 6 of [LICENSE](../../LICENSE).

diff --git a/docs/IMPLEMENTATION_SCOPE.md b/docs/IMPLEMENTATION_SCOPE.md
@@ -7,6 +7,10 @@ French/English documentation and reports, contribution/license/security policies
 and isolated CI. Public repository publication is an intended delivery step when
 the user's GitHub session and repository permissions permit it.
 
+The subsequent owner request adds the existing NOMVEX platform mark to both
+READMEs and standalone French/English HTML reports. Acceptance includes exact
+embedded asset bytes, offline image loading, responsive layout and print visibility.
+
 Acceptance: clean installation and build; three working check types; intended
 faults detected for the right reasons; invalid configuration, unavailable target,
 blocked origin, missing environment variable, skipped and timed-out checks are

diff --git a/CHANGELOG.md b/CHANGELOG.md
@@ -1,5 +1,11 @@
 # Changelog
 
+## 0.1.1 — 2026-10-21
+
+- Reuse the existing NOMVEX platform mark in both READMEs and the French/English HTML reports.
+- Embed the exact logo bytes for offline reports, preserving strict content escaping and allowing only data images in the content policy.
+- Refresh sample reports, responsive visual evidence and release packaging.
+
 ## 0.1.0 — 2026-10-21
 
 - Original Web Checks CLI and JavaScript library: redirects, language persistence and PDF/JSON/CSV/text downloads.

diff --git a/README.md b/README.md
@@ -1,3 +1,5 @@
+<p><img src="docs/branding/nomvex-mark.svg" width="80" height="80" alt="NOMVEX"></p>
+
 # NOMVEX Toolbox — Web Checks
 
 [English](README.en.md) · [Configuration](docs/CONFIGURATION.md) · [Catalogue](catalog/README.md) · [Contribuer](CONTRIBUTING.md)
